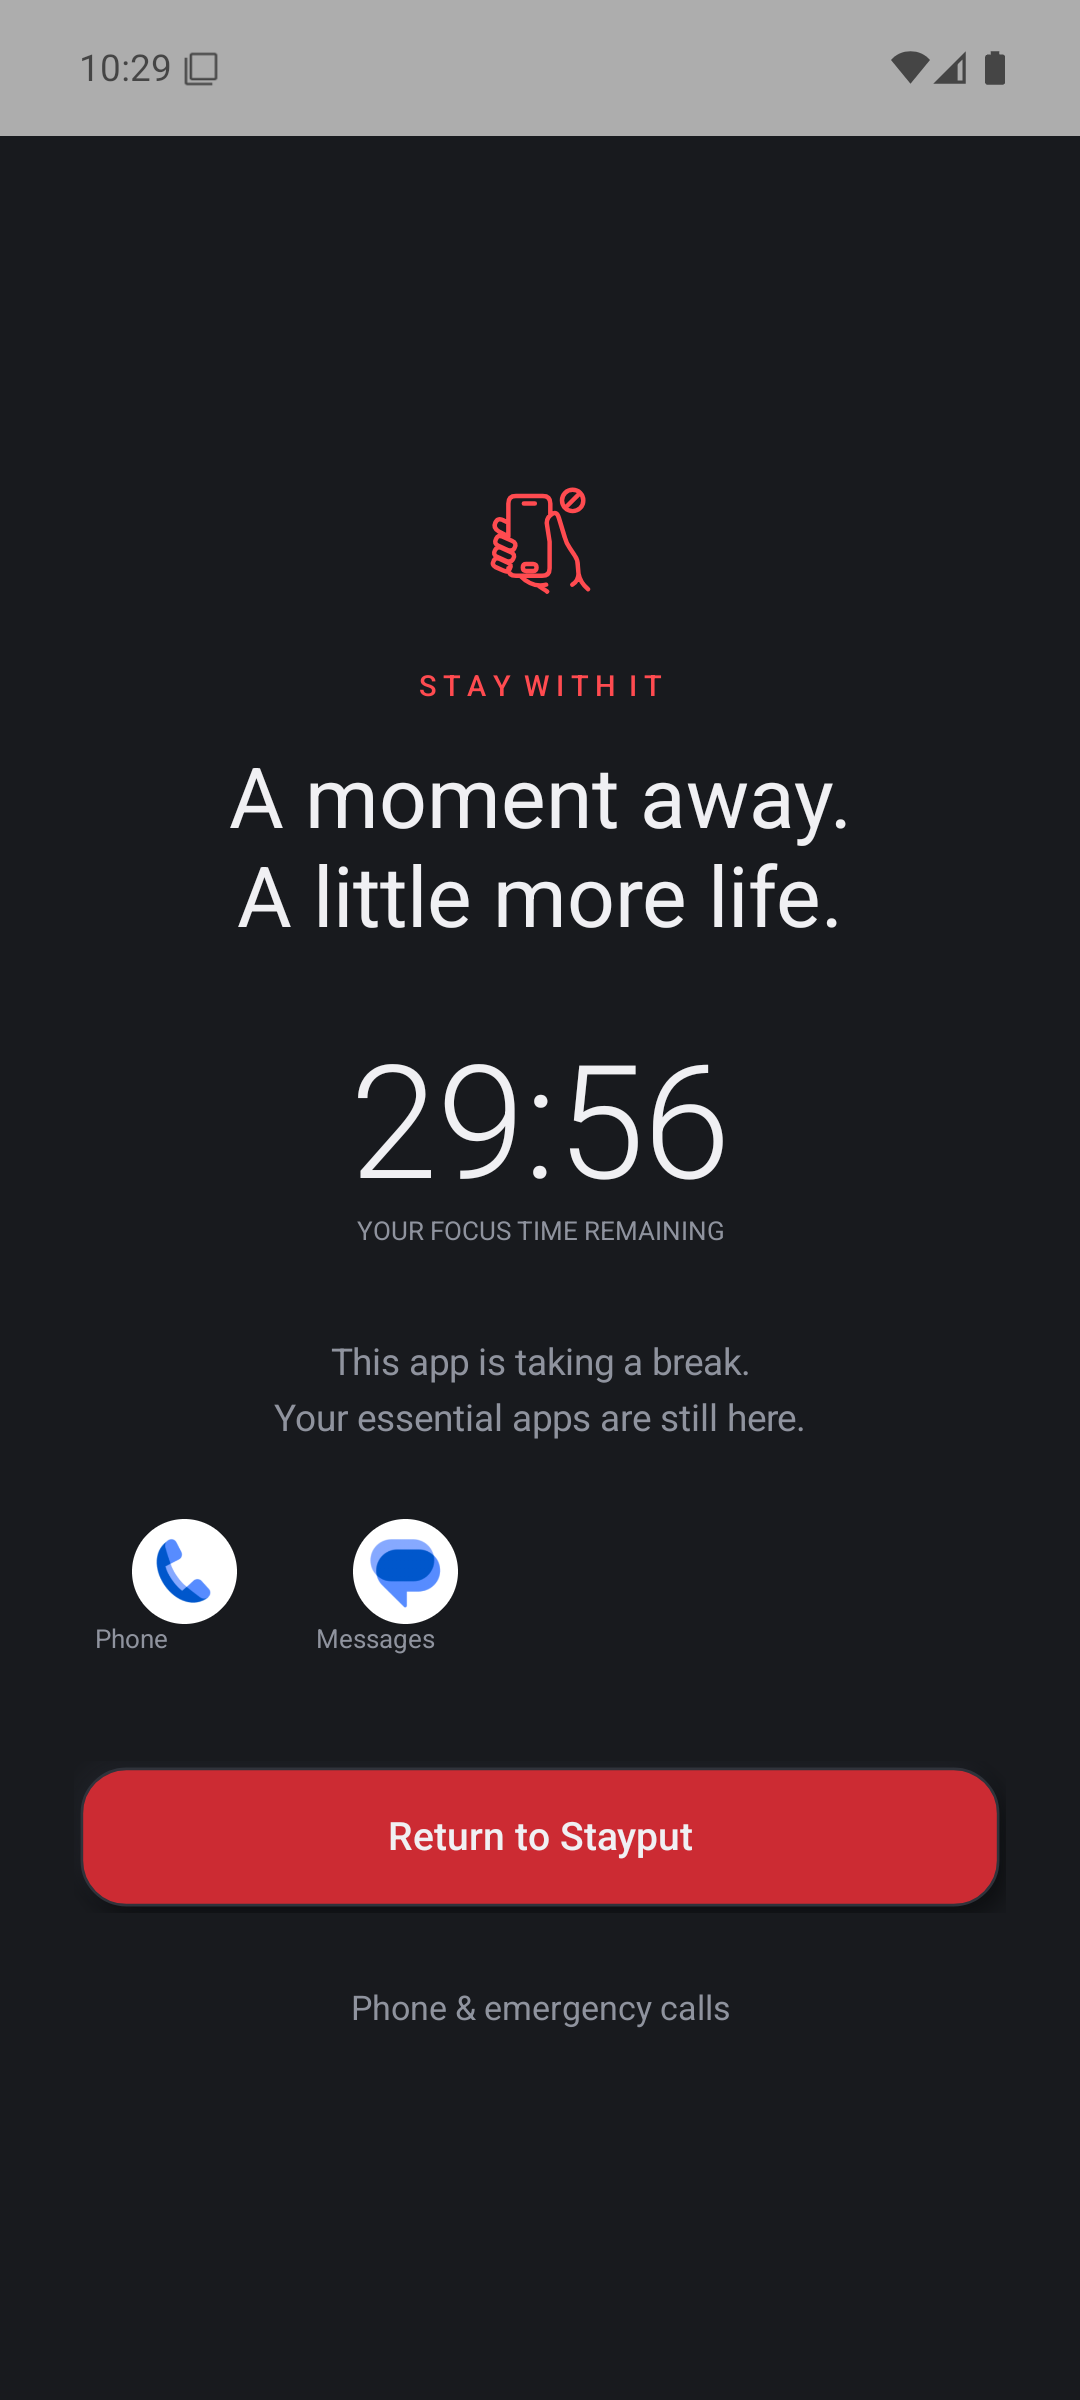
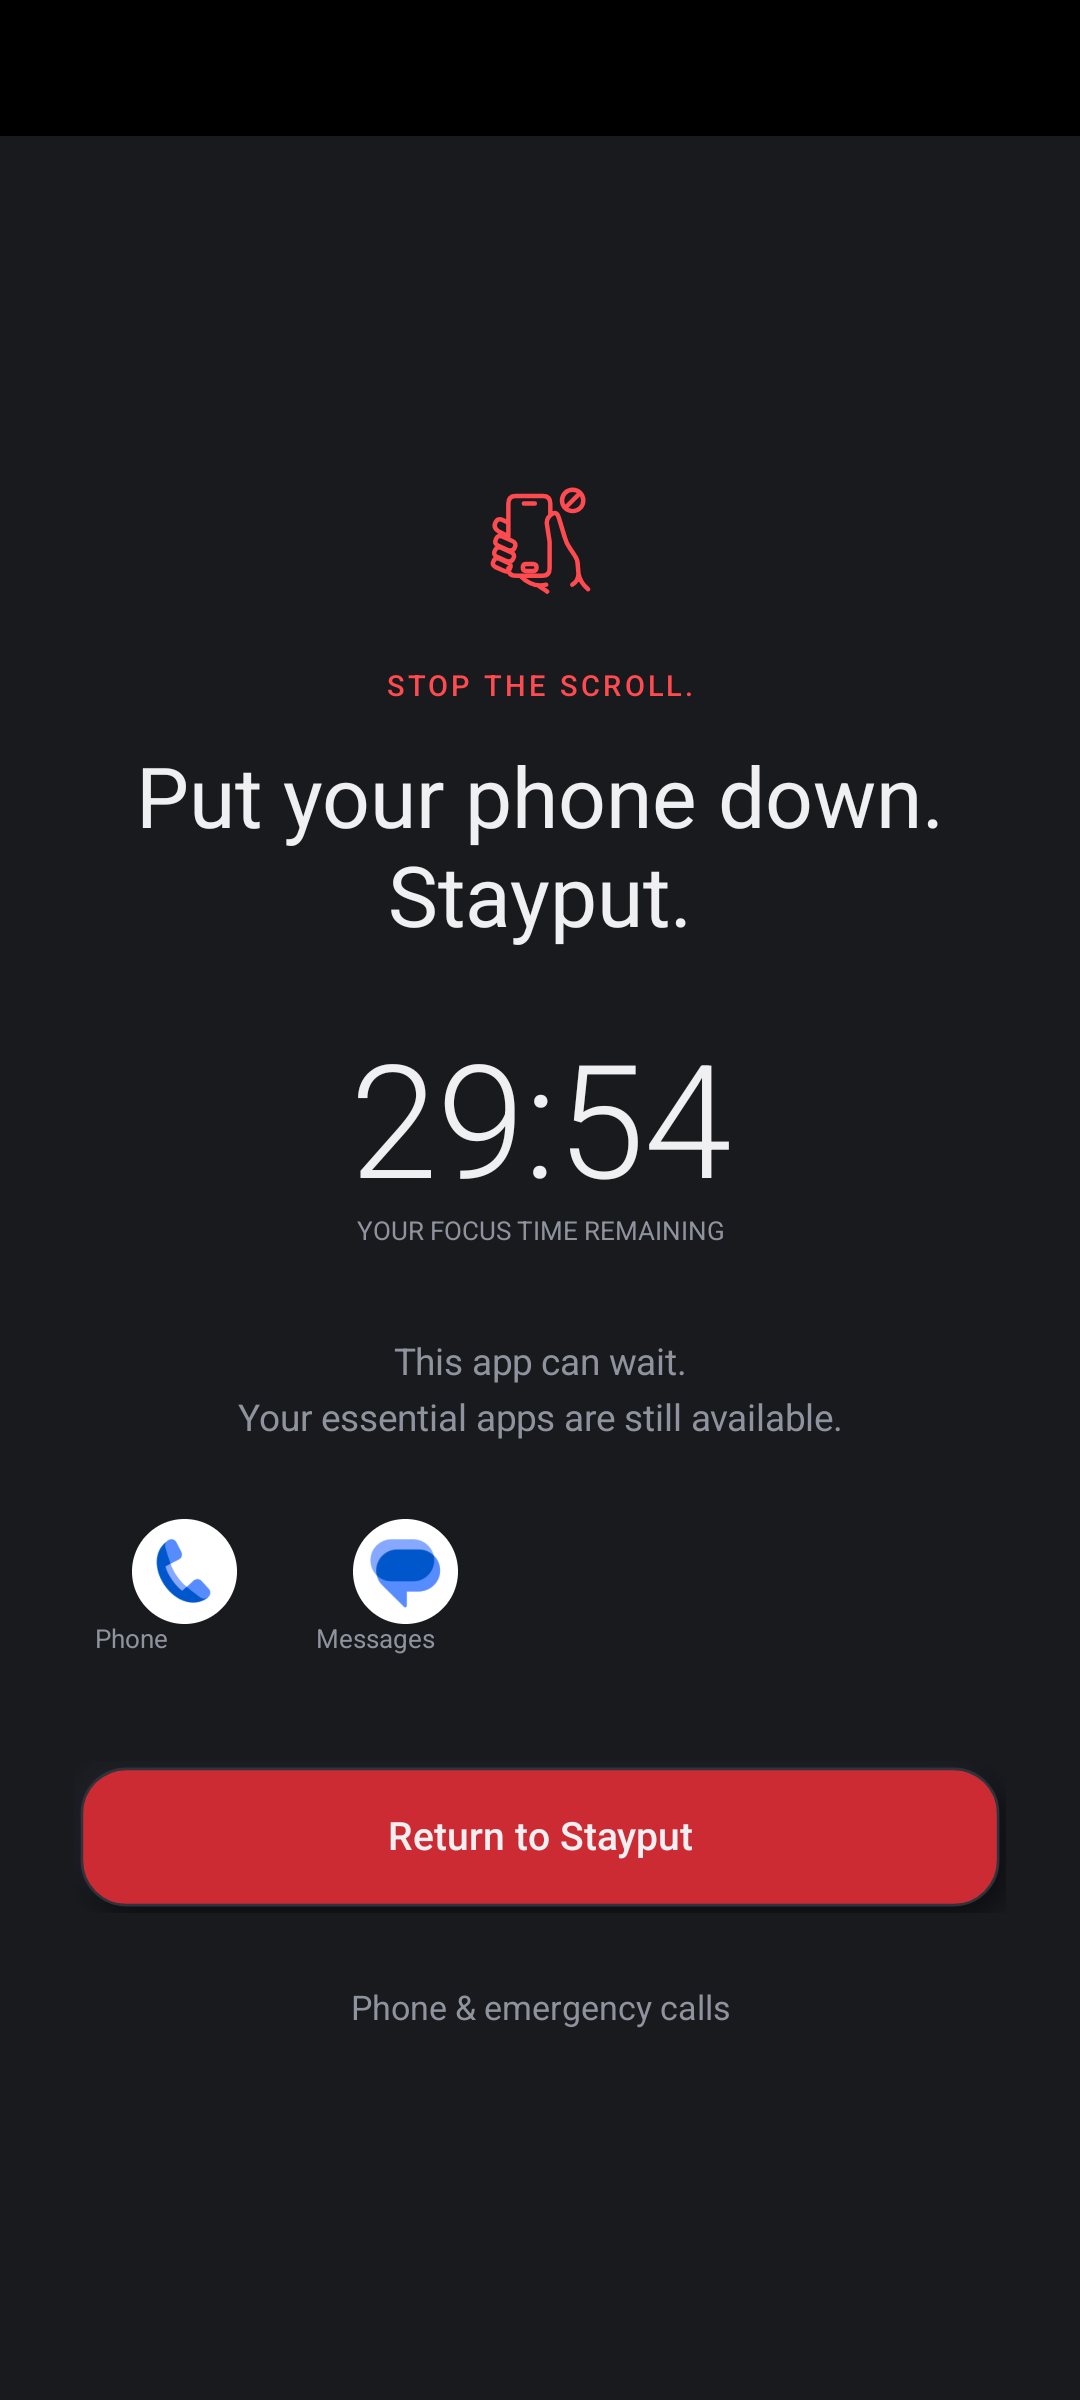
Align in-app copy with Stayput website branding

diff --git a/app/src/androidTest/java/app/stayput/SmokeInstrumentation.java b/app/src/androidTest/java/app/stayput/SmokeInstrumentation.java
@@ -192,10 +192,10 @@ public class SmokeInstrumentation extends Instrumentation {
       Intent messages = c.getPackageManager().getLaunchIntentForPackage(sms);
       check(messages != null, "Default messaging app can be opened");
       c.startActivity(messages.addFlags(Intent.FLAG_ACTIVITY_NEW_TASK));
-      capture("automatic-messages");
-      check(
-          !FocusAccessibilityService.getConnected().isBlockingVisible(),
+      until(
+          () -> visibleApp(sms) && !FocusAccessibilityService.getConnected().isBlockingVisible(),
           "Default messaging app is automatically available during focus");
+      capture("automatic-messages");
       String phone =
           c.getSystemService(android.telecom.TelecomManager.class).getDefaultDialerPackage();
       Set<String> required = set(sms, phone, keyboard.getPackageName());
@@ -214,10 +214,10 @@ public class SmokeInstrumentation extends Instrumentation {
               .setPackage(phone)
               .addFlags(Intent.FLAG_ACTIVITY_NEW_TASK);
       c.startActivity(dial);
-      capture("automatic-phone");
-      check(
-          !FocusAccessibilityService.getConnected().isBlockingVisible(),
+      until(
+          () -> visibleApp(phone) && !FocusAccessibilityService.getConnected().isBlockingVisible(),
           "Default phone app stays usable without a manual selection");
+      capture("automatic-phone");
       c.startActivity(launch.addFlags(Intent.FLAG_ACTIVITY_NEW_TASK));
       until(
           () -> FocusAccessibilityService.getConnected().isBlockingVisible(),
@@ -241,10 +241,12 @@ public class SmokeInstrumentation extends Instrumentation {
       }
       check(keyboardSettings != null, "Default keyboard settings can be opened");
       c.startActivity(keyboardSettings.addFlags(Intent.FLAG_ACTIVITY_NEW_TASK));
-      capture("automatic-keyboard");
-      check(
-          !FocusAccessibilityService.getConnected().isBlockingVisible(),
+      until(
+          () ->
+              visibleApp(keyboard.getPackageName())
+                  && !FocusAccessibilityService.getConnected().isBlockingVisible(),
           "Default keyboard app stays usable without a manual selection");
+      capture("automatic-keyboard");
       Store.set(c, "keys", 2);
       boolean[] atomicExit = {false};
       android.content.SharedPreferences.OnSharedPreferenceChangeListener exitListener =
@@ -361,6 +363,13 @@ public class SmokeInstrumentation extends Instrumentation {
       // The first asynchronous write may not have created the file yet.
     }
     return values;
+  }
+
+  boolean visibleApp(String packageName) {
+    android.view.accessibility.AccessibilityNodeInfo window =
+        getUiAutomation(UiAutomation.FLAG_DONT_SUPPRESS_ACCESSIBILITY_SERVICES)
+            .getRootInActiveWindow();
+    return window != null && packageName.contentEquals(window.getPackageName());
   }
 
   void capture(String name) throws Exception {

diff --git a/app/src/main/java/app/stayput/MainActivity.java b/app/src/main/java/app/stayput/MainActivity.java
@@ -219,7 +219,7 @@ public class MainActivity extends Activity {
     Ui.animateIn(content);
   }
 
-  void title(String eyebrow, String heading, String subtitle) {
+  TextView title(String eyebrow, String heading, String subtitle) {
     TextView e = Ui.bold(this, eyebrow, 10, Ui.RED);
     e.setLetterSpacing(.14f);
     content.addView(e);
@@ -236,6 +236,7 @@ public class MainActivity extends Activity {
       content.addView(s);
     }
     Ui.gap(content, 24);
+    return h;
   }
 
   LinearLayout card() {
@@ -258,7 +259,8 @@ public class MainActivity extends Activity {
       activePage();
       return;
     }
-    title("LESS SCROLL. MORE SOUL.", "Make room\nfor real life.", null);
+    title(getString(R.string.brand_eyebrow), getString(R.string.brand_home_heading), null)
+        .setTextSize(30);
     if (!Permissions.ready(this)) {
       LinearLayout banner = Ui.row(this);
       Ui.surface(banner, true);
@@ -413,7 +415,7 @@ public class MainActivity extends Activity {
       return;
     }
     new AlertDialog.Builder(this)
-        .setTitle("A little time for you.")
+        .setTitle(R.string.brand_session_confirm)
         .setMessage(
             "Start a "
                 + minutes
@@ -447,7 +449,7 @@ public class MainActivity extends Activity {
   void activePage() {
     title(
         "SESSION IN PROGRESS",
-        "Stay here.\nBe somewhere else.",
+        getString(R.string.brand_session_heading),
         Store.text(this, "session_label", "Focus session"));
     if (!Permissions.ready(this)) {
       TextView warning =
@@ -466,7 +468,7 @@ public class MainActivity extends Activity {
     dial.countdown(Store.remaining(this), Store.duration(this));
     content.addView(dial, Ui.width(-1, 300, this));
     Ui.gap(content, 12);
-    TextView breathe = Ui.text(this, "Breathe in. Let the noise out.", 13, Ui.MUTED);
+    TextView breathe = Ui.text(this, getString(R.string.brand_session_reminder), 13, Ui.MUTED);
     breathe.setGravity(Gravity.CENTER);
     content.addView(breathe);
     if (Ui.motionEnabled())
@@ -1099,7 +1101,7 @@ public class MainActivity extends Activity {
                 .show());
     Ui.gap(content, 28);
     TextView version =
-        Ui.text(this, "STAYPUT  /  0.1.0\nA little less phone. A little more life.", 11, Ui.MUTED);
+        Ui.text(this, "STAYPUT  /  0.1.0\n" + getString(R.string.brand_tagline), 11, Ui.MUTED);
     version.setGravity(Gravity.CENTER);
     version.setLineSpacing(Ui.dp(this, 8), 1);
     content.addView(version);

diff --git a/app/src/main/java/app/stayput/FocusAccessibilityService.java b/app/src/main/java/app/stayput/FocusAccessibilityService.java
@@ -93,11 +93,12 @@ public class FocusAccessibilityService extends AccessibilityService {
     Ui.pad(root, 28, 48, 40);
     root.addView(Ui.brand(this, 42));
     Ui.gap(root, 28);
-    TextView eyebrow = Ui.bold(this, "S T A Y  W I T H  I T", 11, Ui.RED);
+    TextView eyebrow = Ui.bold(this, getString(R.string.brand_eyebrow), 11, Ui.RED);
+    eyebrow.setLetterSpacing(.14f);
     eyebrow.setGravity(Gravity.CENTER);
     root.addView(eyebrow);
     Ui.gap(root, 18);
-    TextView title = Ui.text(this, "A moment away.\nA little more life.", 32, Ui.WHITE);
+    TextView title = Ui.text(this, getString(R.string.brand_session_heading), 32, Ui.WHITE);
     Ui.heading(title);
     title.setGravity(Gravity.CENTER);
     root.addView(title);
@@ -112,7 +113,7 @@ public class FocusAccessibilityService extends AccessibilityService {
     Ui.gap(root, 36);
     TextView caption =
         Ui.text(
-            this, "This app is taking a break.\nYour essential apps are still here.", 14, Ui.MUTED);
+            this, getString(R.string.brand_blocked_caption), 14, Ui.MUTED);
     caption.setGravity(Gravity.CENTER);
     caption.setLineSpacing(Ui.dp(this, 5), 1);
     root.addView(caption);

diff --git a/VALIDATION.md b/VALIDATION.md
@@ -15,12 +15,14 @@ Validated on 7 November 2026.
 - The transparent phone-in-hand logo and cancel symbol are shared by every app header, the blocking screen, the floating timer, and the launcher.
   Notification icons use the same geometry in white, and the adaptive launcher includes a monochrome variant for Android themed icons.
   The revised artwork builds with zero lint findings and was visually checked on the API 35 emulator.
+- The focus screen uses “Stop your phone addiction. And stayput.”, with matching session, blocking-screen, confirmation, and Settings copy.
 
 The device checks cover: permission availability; actual accessibility-service connection; session readiness; session start; overlapping-session rejection; immutable active whitelist; fifteen-minute extension; exhausted demo keys; allowed-app access; non-allowed-app blocking; early exit; exact key consumption; overlay removal; early-exit persistence without tower credit; idempotent finish; automatic timer completion; completion persistence; one floor per completed day; and avoiding duplicate floors for multiple sessions on a day.
 
 Instrumentation itself force-stops its target package and leaves Android's prior accessibility binding dead.
 The disposable-emulator fixture waits for Android to apply the disabled accessibility state before reconnecting that binding, avoiding a race between the two switch changes.
 Normal application onboarding also detects a disconnected service and requires reconnection rather than claiming blocking is ready.
+Allowed-app checks wait for the requested app to become visible and the blocking screen to disappear, covering cold starts without relying on screenshot delays.
 
 The Android 15 checks used a hardware-accelerated emulator on Windows.
 The Pixel check covered the UI and installation; OEM background restrictions, routine/DND behavior, and vendor-specific settings still need dedicated physical-device testing.

diff --git a/README.md b/README.md
@@ -243,4 +243,4 @@ The optional Glyph integration uses [Nothing's official Glyph SDK](https://githu
 The vendor API is guarded behind Android 14 and compatible-hardware checks.
 Stayput's audio assets were synthesized for this project.
 
-The banner is generated artwork; the screenshots are unmodified captures from the running app.
+The screenshots are unmodified captures from the running app.
